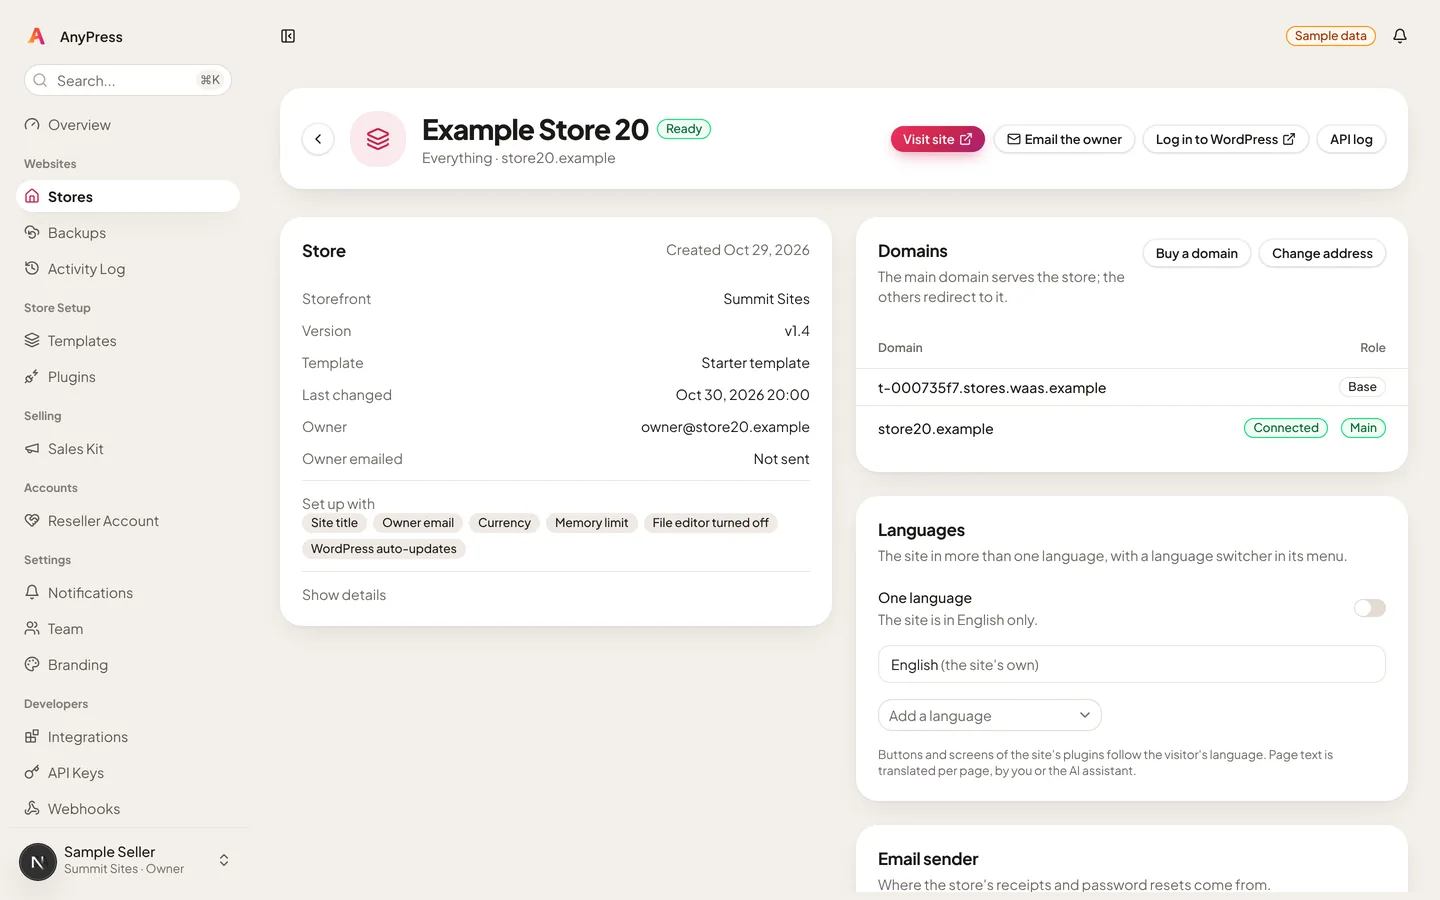
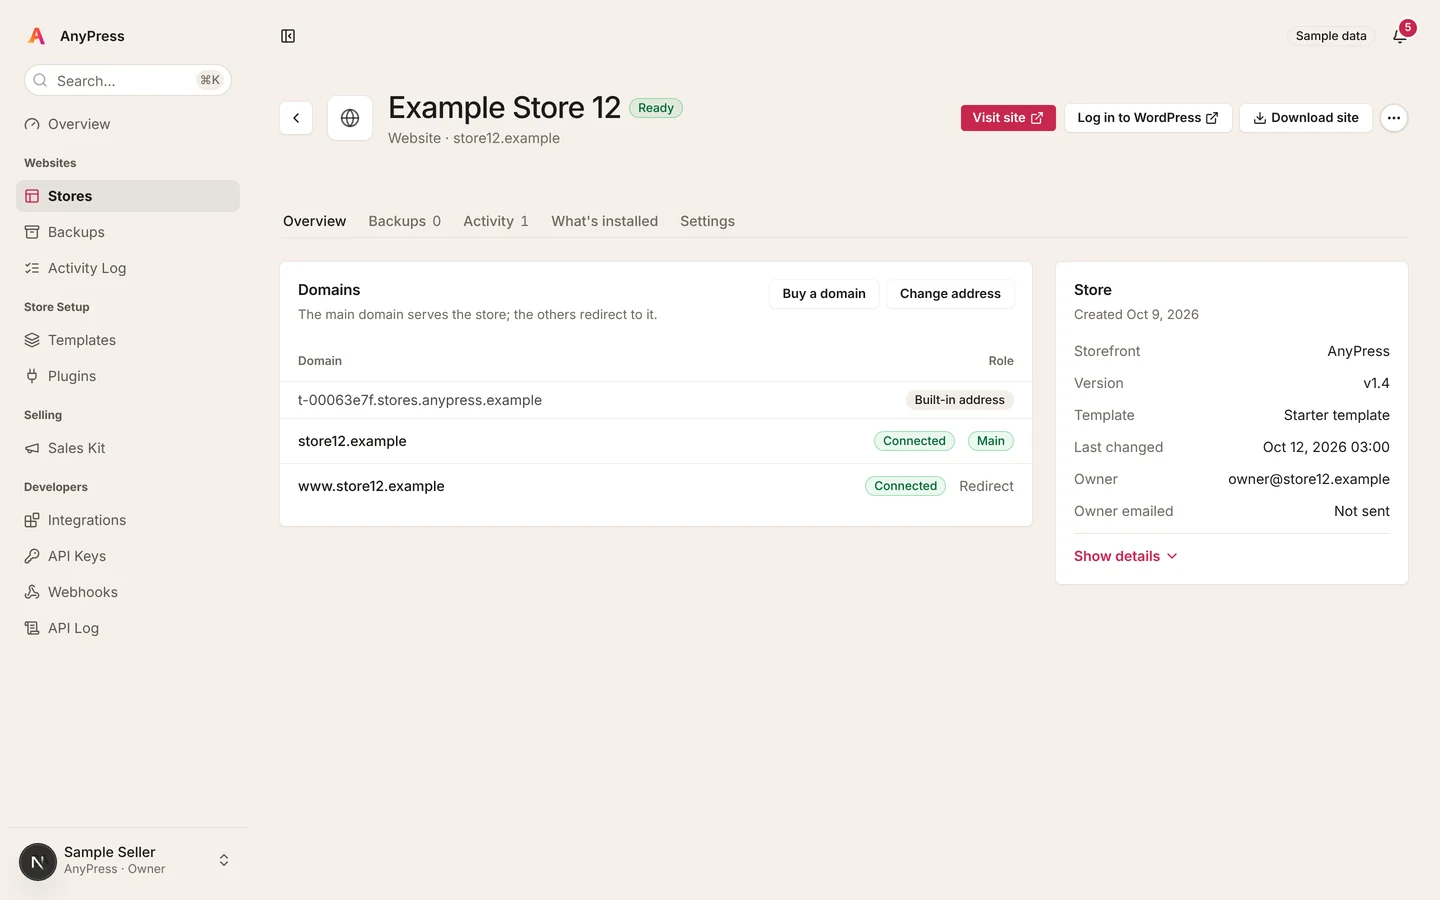
Retake dashboard screenshots with clean sample domains (site-diw) (#84)
Claude-Session: https://claude.ai/code/session_01E4t4vc6sdJTki8tStGBJ2e

diff --git a/src/app/beta/page.tsx b/src/app/beta/page.tsx
@@ -146,7 +146,7 @@ const DASHBOARD: { src: string; label: string; alt: string; title: string; point
   {
     src: "/beta/dashboard-stores.webp",
     label: "app.anypress.io · Stores",
-    alt: "The AnyPress dashboard's Stores list, showing four sample sites with their version, domain, status, last backup and date",
+    alt: "The AnyPress dashboard's Stores list, showing sample sites with their version, domain, status, last backup and date",
     title: "Every site in one list",
     points: [
       "See which sites are ready, being built, failed or suspended.",
@@ -157,7 +157,7 @@ const DASHBOARD: { src: string; label: string; alt: string; title: string; point
   {
     src: "/beta/dashboard-store.webp",
     label: "app.anypress.io · A store",
-    alt: "One site in the AnyPress dashboard: its details, its domains with a connected custom domain, and its languages",
+    alt: "One site in the AnyPress dashboard: its domains with a connected custom domain, and its details",
     title: "Everything about one site on one page",
     points: [
       "Log in to WordPress with one click, or email the owner.",

diff --git a/src/app/self-host/page.tsx b/src/app/self-host/page.tsx
@@ -128,7 +128,7 @@ const SCREENS: [string, string, string, string][] = [
   [
     "/beta/dashboard-store.webp",
     "Your dashboard · A store",
-    "One site in the AnyPress dashboard: its details, its domains with a connected custom domain, and its languages",
+    "One site in the AnyPress dashboard: its domains with a connected custom domain, and its details",
     "One page per site: log in to WordPress, connect a domain, take or restore a backup.",
   ],
 ];
